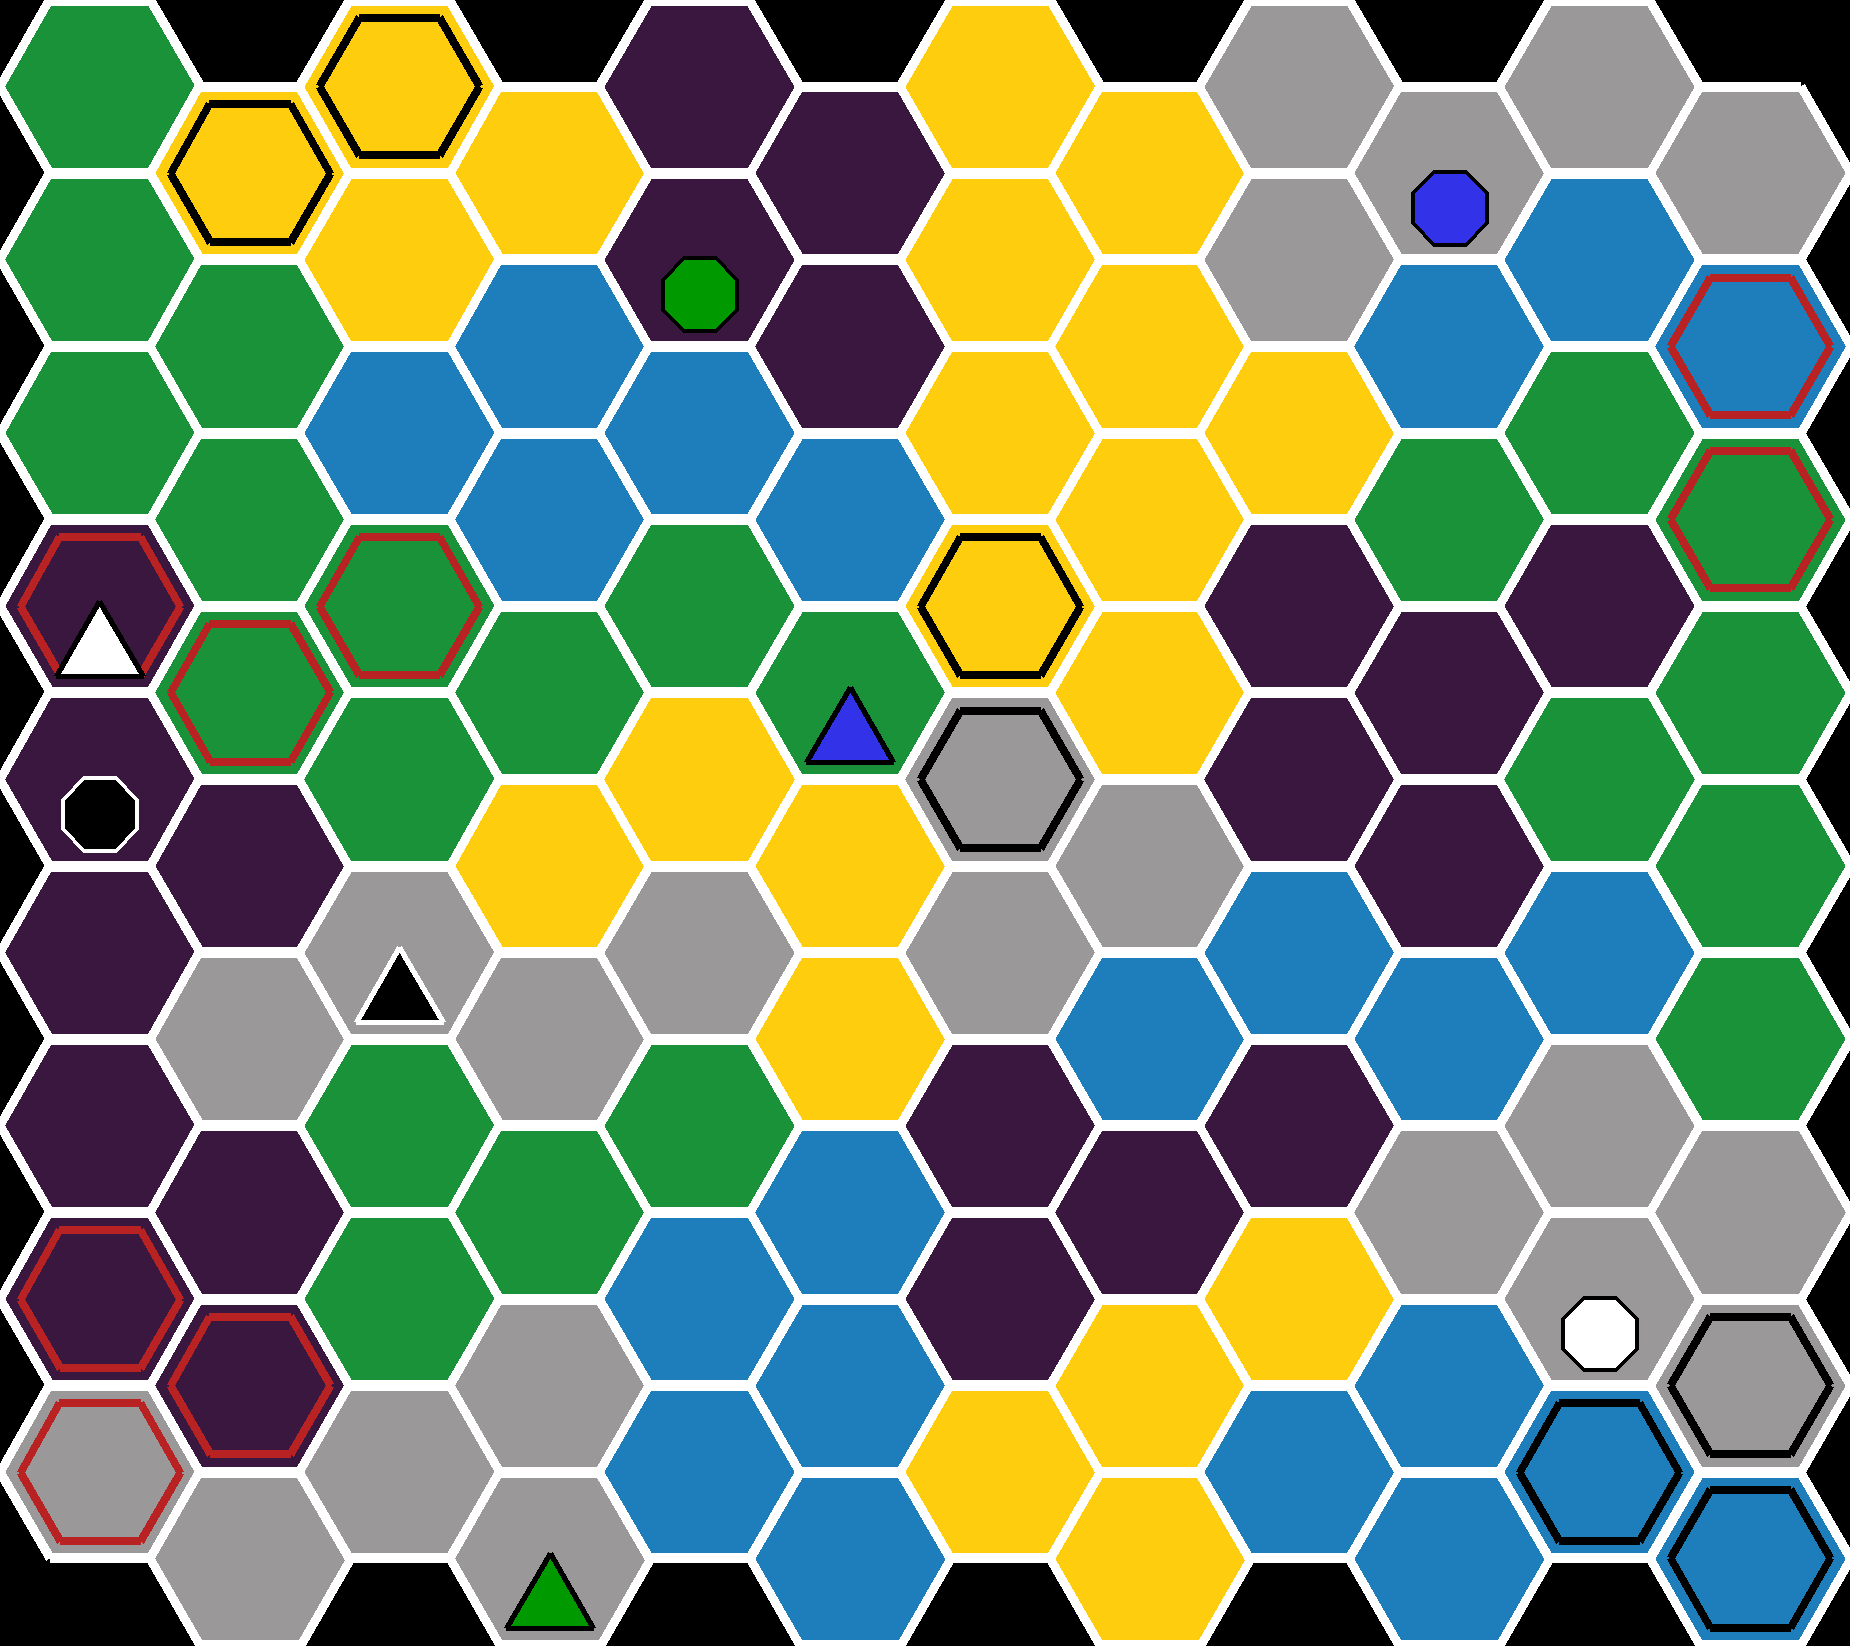
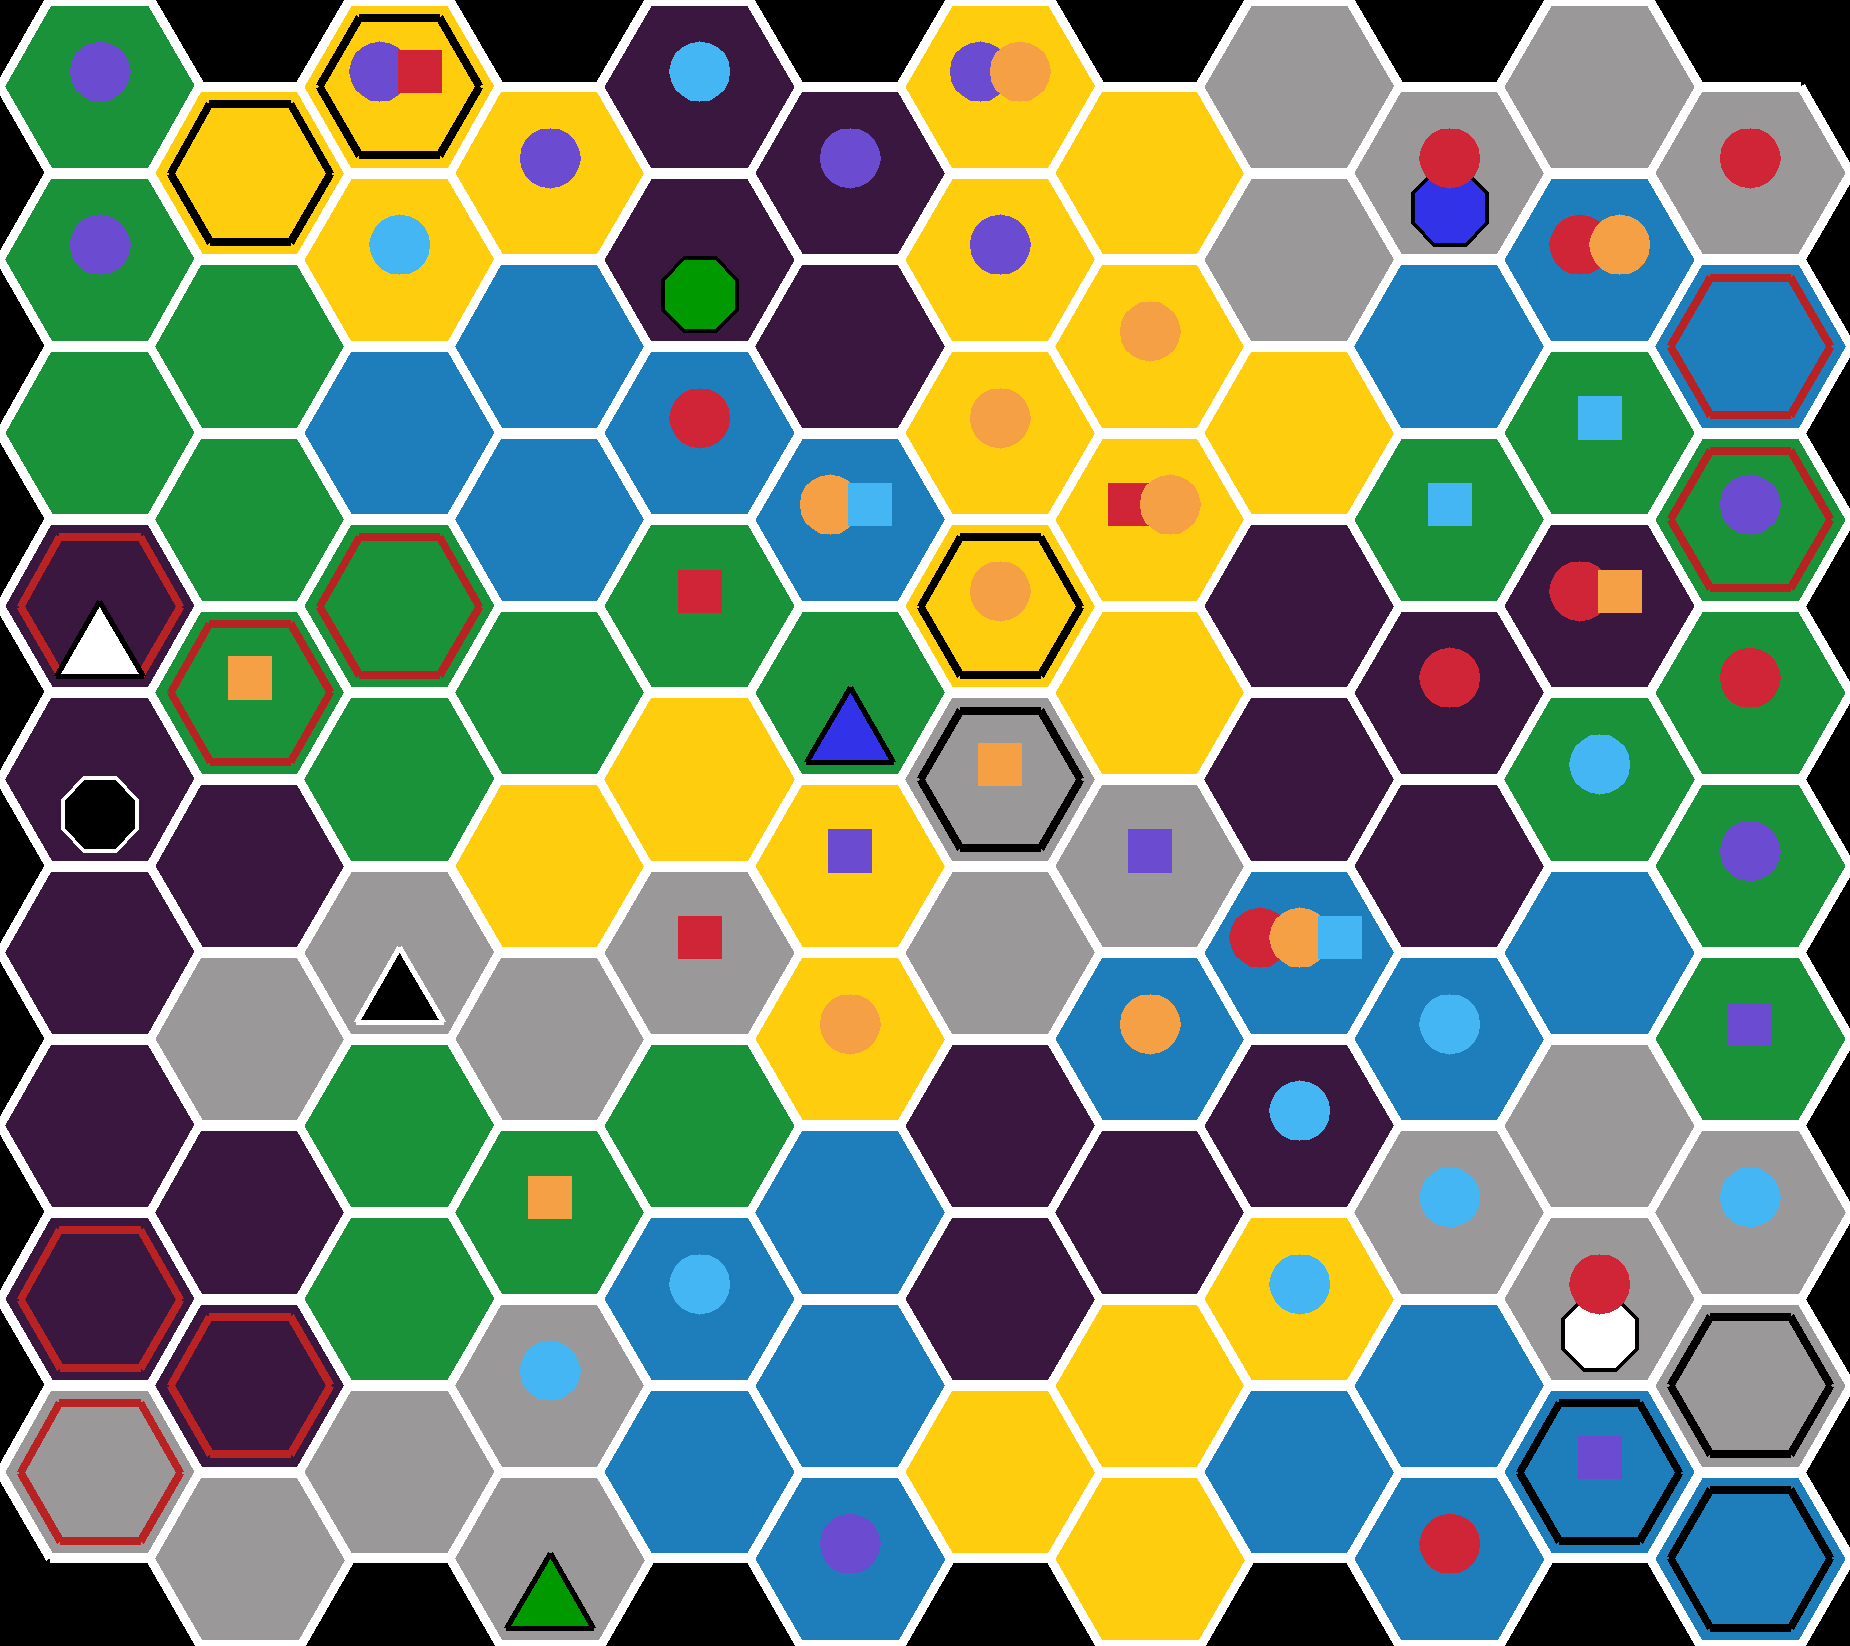
Added rendering for player pieces

diff --git a/draw.py b/draw.py
@@ -23,7 +23,7 @@ COLORS = {
     'p2': '#cf2537',
     'p3': '#f5a044',
     'p4': '#44b6f4',
-    'p5': '#',
+    'p5': '#55db53', # Chose a new color here to avoid player similarity
 }
 
 
@@ -121,7 +121,6 @@ def draw_components(drawer, center, scale, tile):
     # Draw any structure on the tile
     if tile.structure is not None:
         struct, color = tile.structure
-
         border = 'white' if color == 'black' else 'black'
 
         if struct == 'shack':
@@ -145,9 +144,36 @@ def draw_components(drawer, center, scale, tile):
                       rotation=cmath.pi / 8,
                       )
 
-    player_count = len(tile.players)
-    for player, truth in enumerate(tile.players):
-        pass
+    player_count = len(tile.players) - tile.players.count(None)
+    if player_count:
+        draw_width = 0.4 * scale * (player_count - 1)
+        used_count = 0
+        for player, truth in enumerate(tile.players):
+            if truth is not None:
+                x, y = center
+                x += used_count * 0.4 * scale - draw_width / 2
+                y -= 0.15 * scale
+
+                used_count += 1
+
+                if truth:
+                    draw_poly(drawer,
+                              center=(x, y),
+                              sides=20,
+                              scale=int(0.3 * scale),
+                              color=COLORS[f'p{player + 1}'],
+                              #border=COLORS['black'],
+                              )
+                else:
+                    draw_poly(drawer,
+                              center=(x, y),
+                              sides=4,
+                              scale=int(0.3 * scale),
+                              color=COLORS[f'p{player + 1}'],
+                              #border=COLORS['black'],
+                              rotation=cmath.pi / 4,
+                              )
+
 
 
 def draw_board(grid, scale, path):

diff --git a/tests/conftest.py b/tests/conftest.py
@@ -59,5 +59,11 @@ def game_with_plays(board_known):
     for _ in range(2):
         for player in game.players:
             player.play_random(False)
+    for _ in range(10):
+        for player in game.players:
+            player.play_random(True)
+    for _ in range(2):
+        for player in game.players:
+            player.play_random(False)
 
     return game
